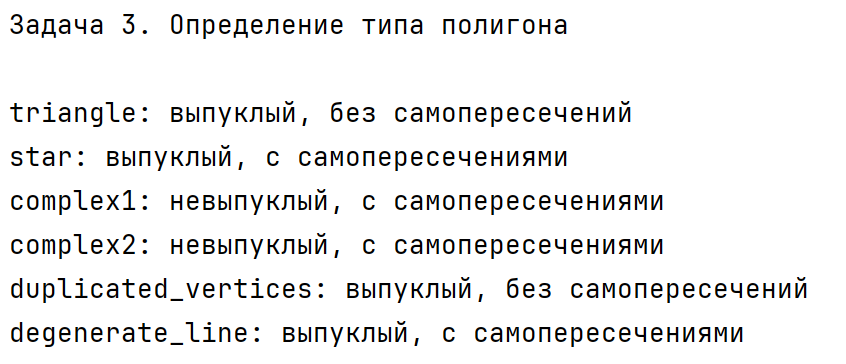
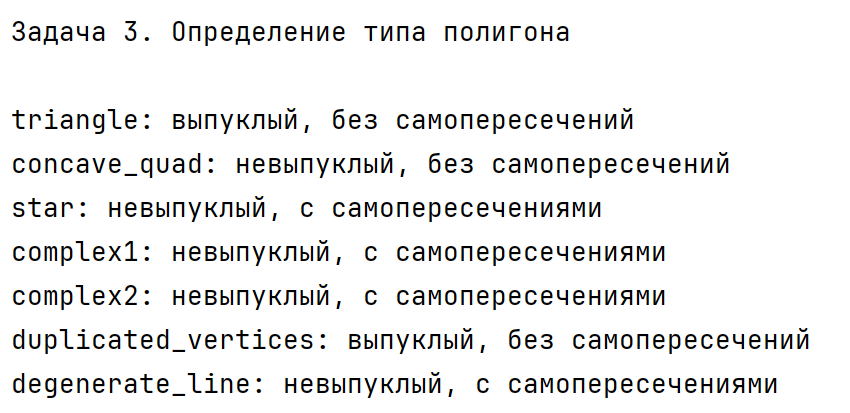
🐛 Доработка 3 лабораторной. Исправлено: Неправильно определялась выпуклость

Changed region(s): [[0.0, 0.2418, 0.9527, 0.8764], [0.0, 0.8764, 0.922, 0.967], [0.0, 0.0302, 0.6761, 0.1209]]

diff --git a/src/main/kotlin/lab3/Lab3Main.kt b/src/main/kotlin/lab3/Lab3Main.kt
@@ -13,6 +13,7 @@ fun main() {
 
     val polygons = listOf(
         "triangle" to createTriangle(300, 250, 120.0),
+        "concave_quad" to createConcaveQuad(300, 250),
         "star" to createStar(300, 250, 100.0),
         "complex1" to createComplexShape1(300, 250, 100.0),
         "complex2" to createComplexShape2(300, 250, 100.0),
@@ -68,6 +69,13 @@ fun createTriangle(cx: Int, cy: Int, size: Double): Polygon {
 
     return Polygon(vertices)
 }
+
+fun createConcaveQuad(cx: Int, cy: Int): Polygon = Polygon(listOf(
+        Point(cx - 100, cy - 80),
+        Point(cx + 100, cy - 80),
+        Point(cx, cy),
+        Point(cx, cy + 80)
+    ))
 
 fun createStar(cx: Int, cy: Int, radius: Double): Polygon {
     val vertices = mutableListOf<Point>()

diff --git a/src/main/kotlin/common/Polygon.kt b/src/main/kotlin/common/Polygon.kt
@@ -94,6 +94,8 @@ class Polygon(val vertices: List<Point>) {
     fun isConvex(): Boolean {
         if (vertices.size < 3) return false
 
+        if (!isSimple()) return false
+
         val f = sign(prod(vertices[0], vertices[1], vertices[2]))
 
         for (i in 1 until vertices.size) {
